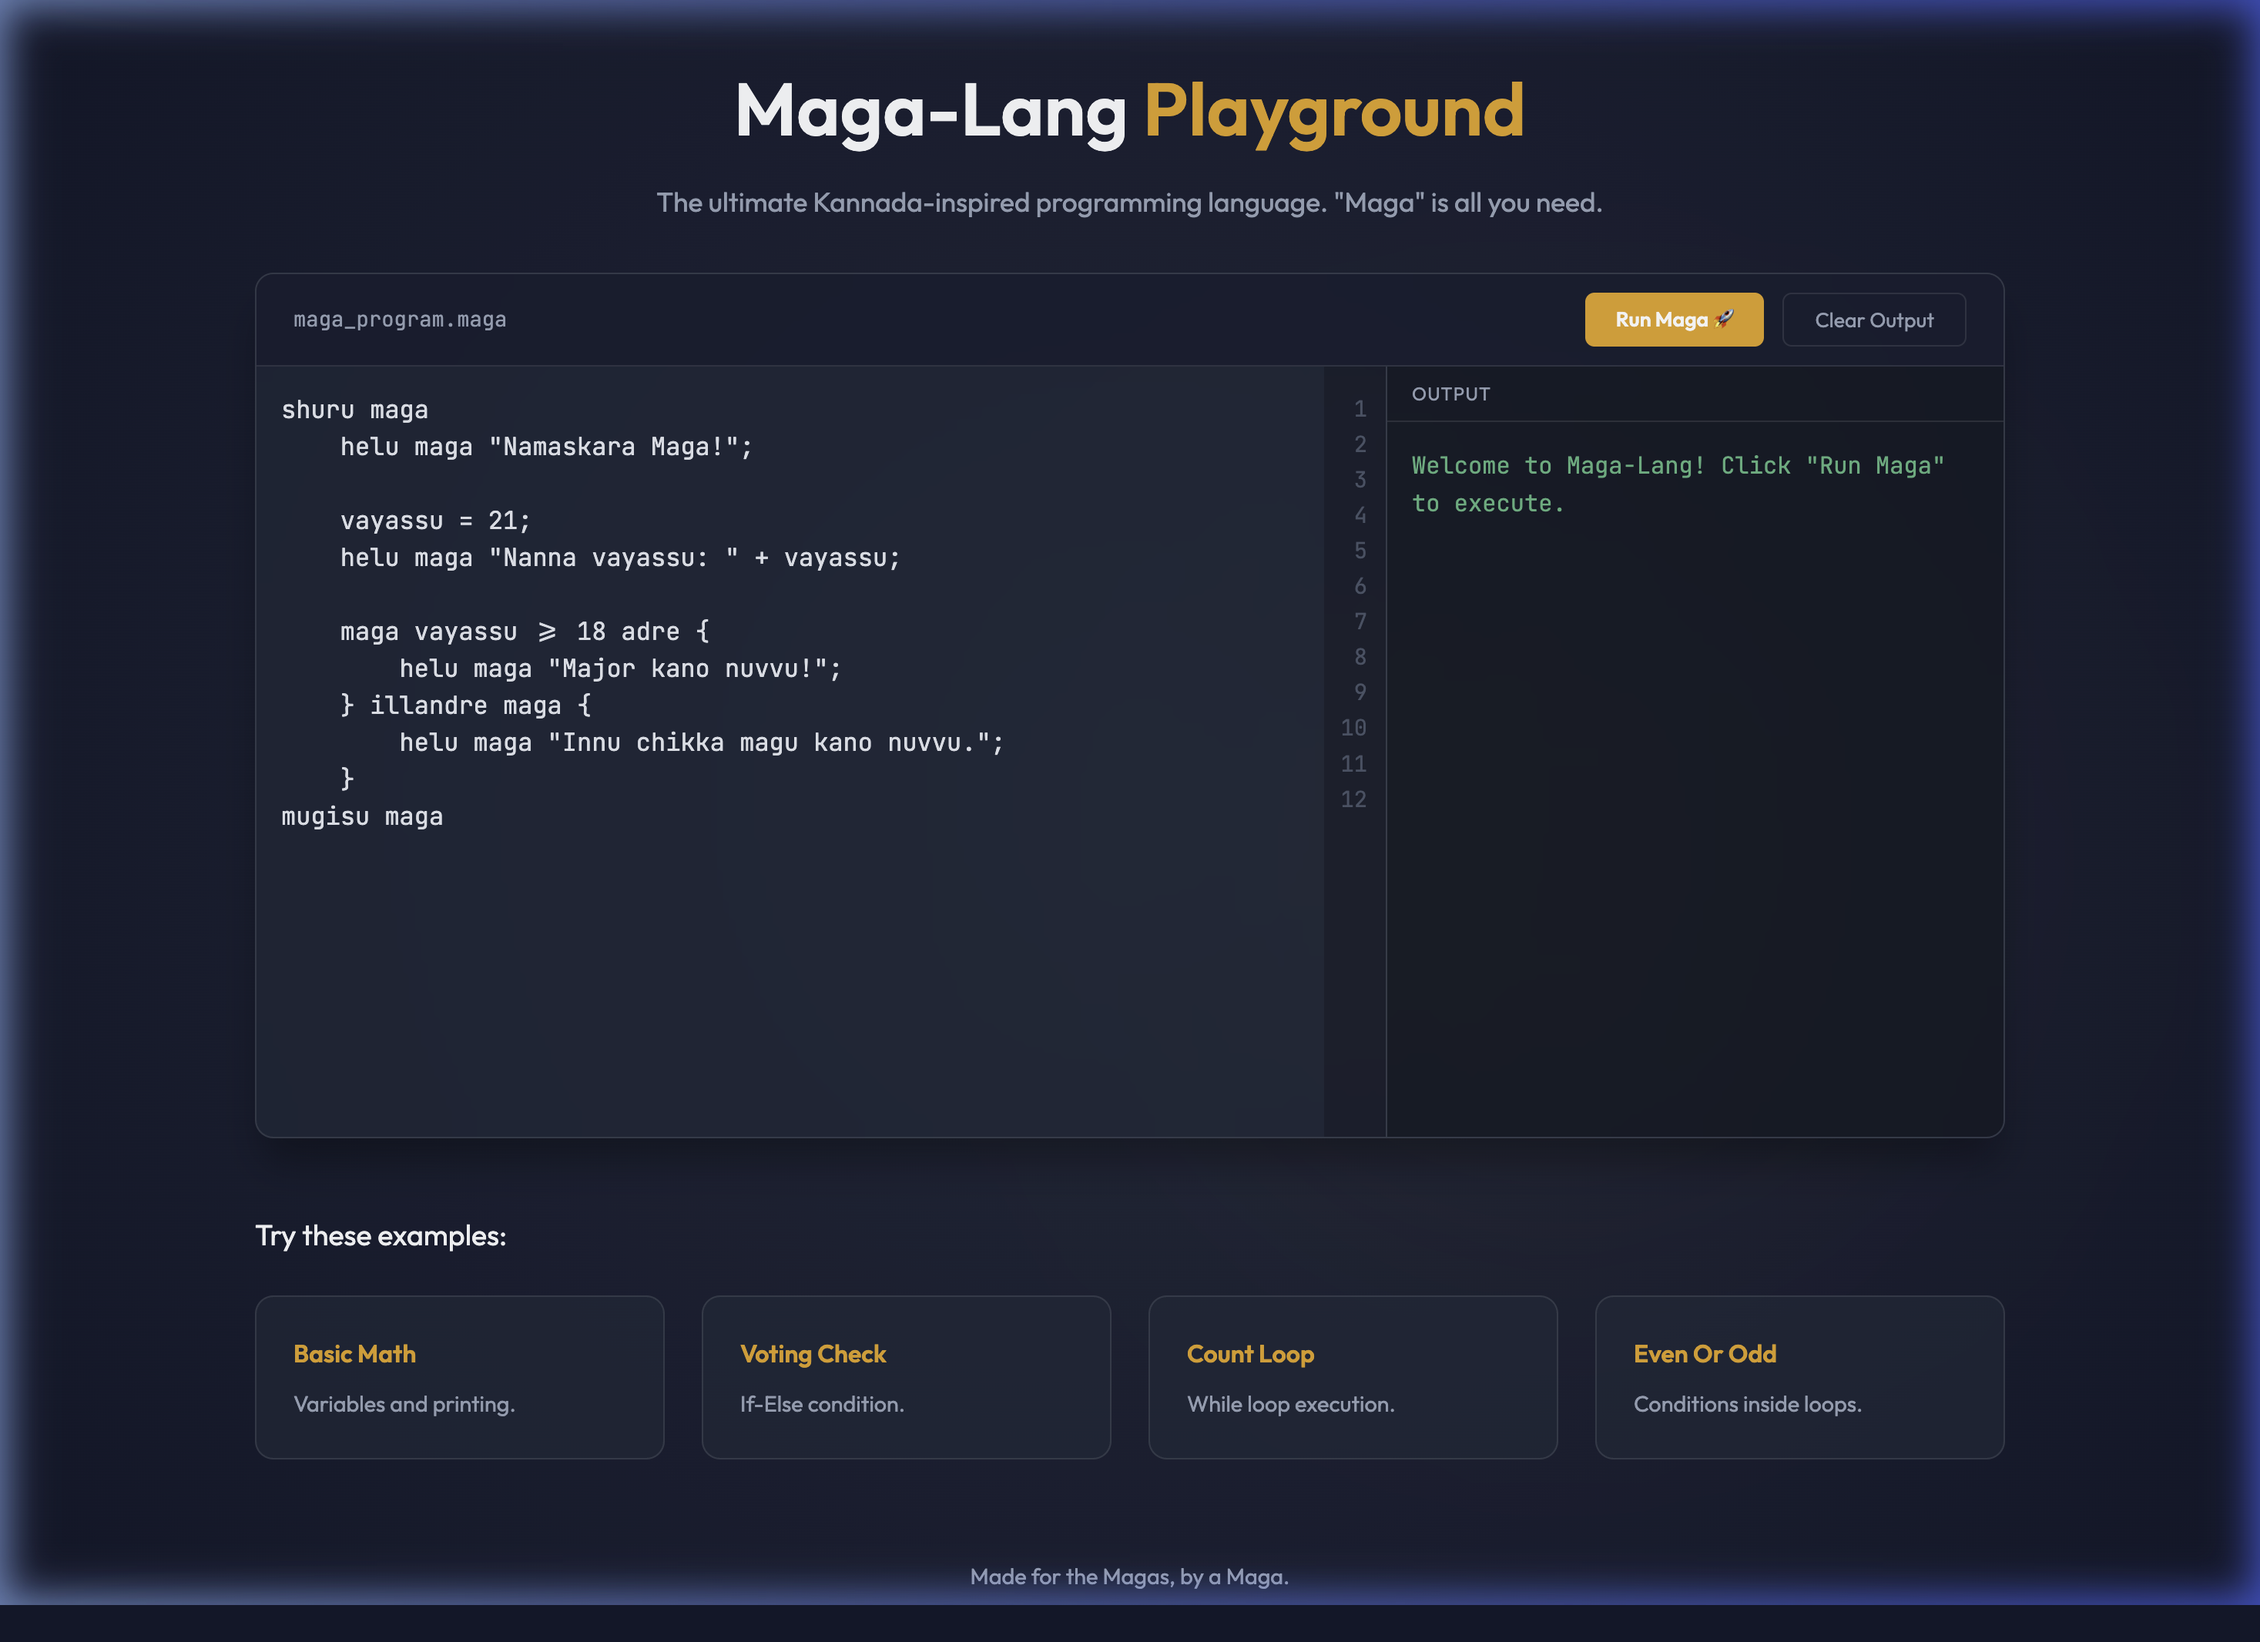
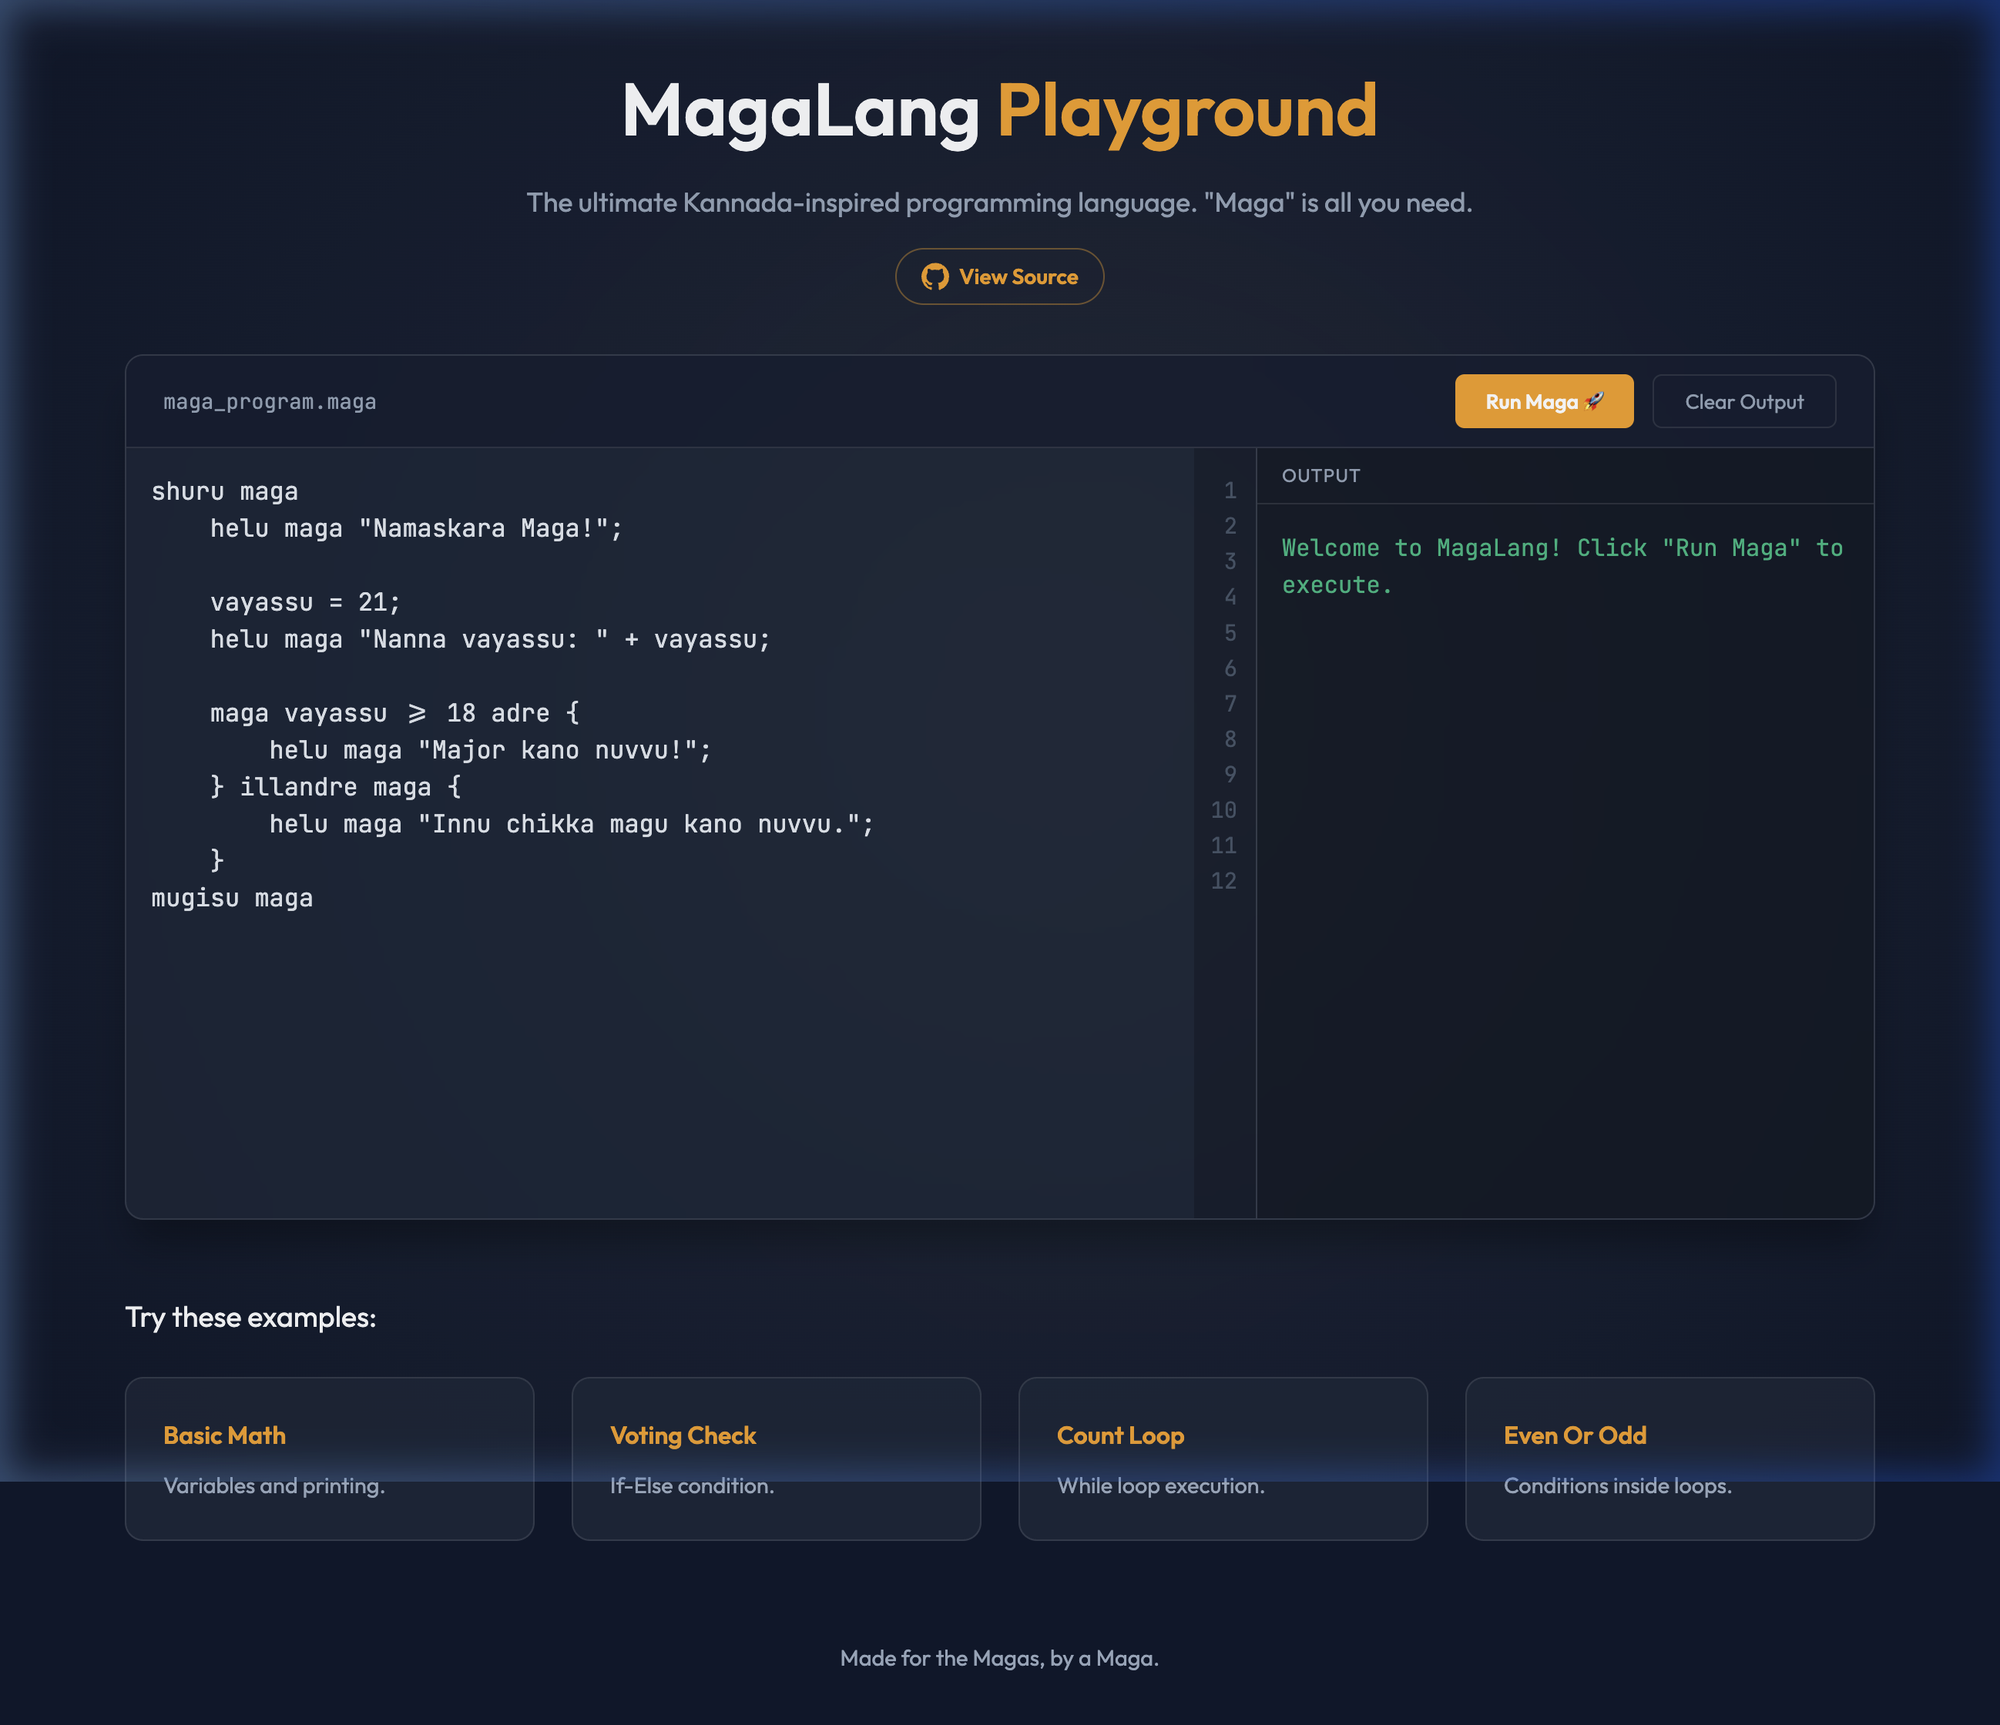
rename: Maga-Lang → MagaLang across all files and preview

diff --git a/index.html b/index.html
@@ -3,7 +3,7 @@
 <head>
     <meta charset="UTF-8">
     <meta name="viewport" content="width=device-width, initial-scale=1.0">
-    <title>Maga-Lang Playground</title>
+    <title>MagaLang Playground</title>
     <link rel="preconnect" href="https://fonts.googleapis.com">
     <link rel="preconnect" href="https://fonts.gstatic.com" crossorigin>
     <link href="https://fonts.googleapis.com/css2?family=Outfit:wght@300;400;600&family=JetBrains+Mono:wght@400;500&display=swap" rel="stylesheet">
@@ -13,7 +13,7 @@
     <div class="glass-bg"></div>
     <div class="container">
         <header>
-            <h1>Maga-Lang <span>Playground</span></h1>
+            <h1>MagaLang <span>Playground</span></h1>
             <p>The ultimate Kannada-inspired programming language. "Maga" is all you need.</p>
             <a id="viewSourceLink" class="github-link" href="https://github.com/nvkudva/maga-lang" target="_blank" rel="noopener noreferrer">
                 <svg width="18" height="18" viewBox="0 0 24 24" fill="currentColor" aria-hidden="true">
@@ -33,12 +33,12 @@
             </div>
             <div class="main-layout">
                 <div class="editor-container">
-                    <textarea id="editor" spellcheck="false" placeholder="Write your Maga-Lang here..."></textarea>
+                    <textarea id="editor" spellcheck="false" placeholder="Write your MagaLang here..."></textarea>
                     <div class="line-numbers" id="lineNumbers"></div>
                 </div>
                 <div class="output-container">
                     <div class="output-label">Output</div>
-                    <div id="output" class="output-area">Welcome to Maga-Lang! Click "Run Maga" to execute.</div>
+                    <div id="output" class="output-area">Welcome to MagaLang! Click "Run Maga" to execute.</div>
                 </div>
             </div>
         </div>

diff --git a/README.md b/README.md
@@ -1,8 +1,8 @@
-# 🚀 Maga-Lang Playground
+# 🚀 MagaLang Playground
 
-Maga-Lang is a Kannada-inspired, lightweight programming language designed for playful learning and expression. Built for the Magas, by a Maga.
+MagaLang is a Kannada-inspired, lightweight programming language designed for playful learning and expression. Built for the Magas, by a Maga.
 
-![Maga-Lang Preview](preview.png)
+![MagaLang Preview](preview.png)
 
 ## ✨ Features
 - **Kannada Keywords**: Familiar terms like `shuru`, `mugisu`, `helu`, and `maga`.
@@ -67,7 +67,7 @@ mugisu maga
 ## 🚀 Getting Started
 1. Clone this repository.
 2. Open `index.html` in any modern web browser or use a local server like `http-server`.
-3. Start writing some Maga-Lang!
+3. Start writing some MagaLang!
 
 ## 🧪 Development
 To contribute or modify the interpreter, check out `maga-interpreter.js`. The logic is modular and easy to extend.
